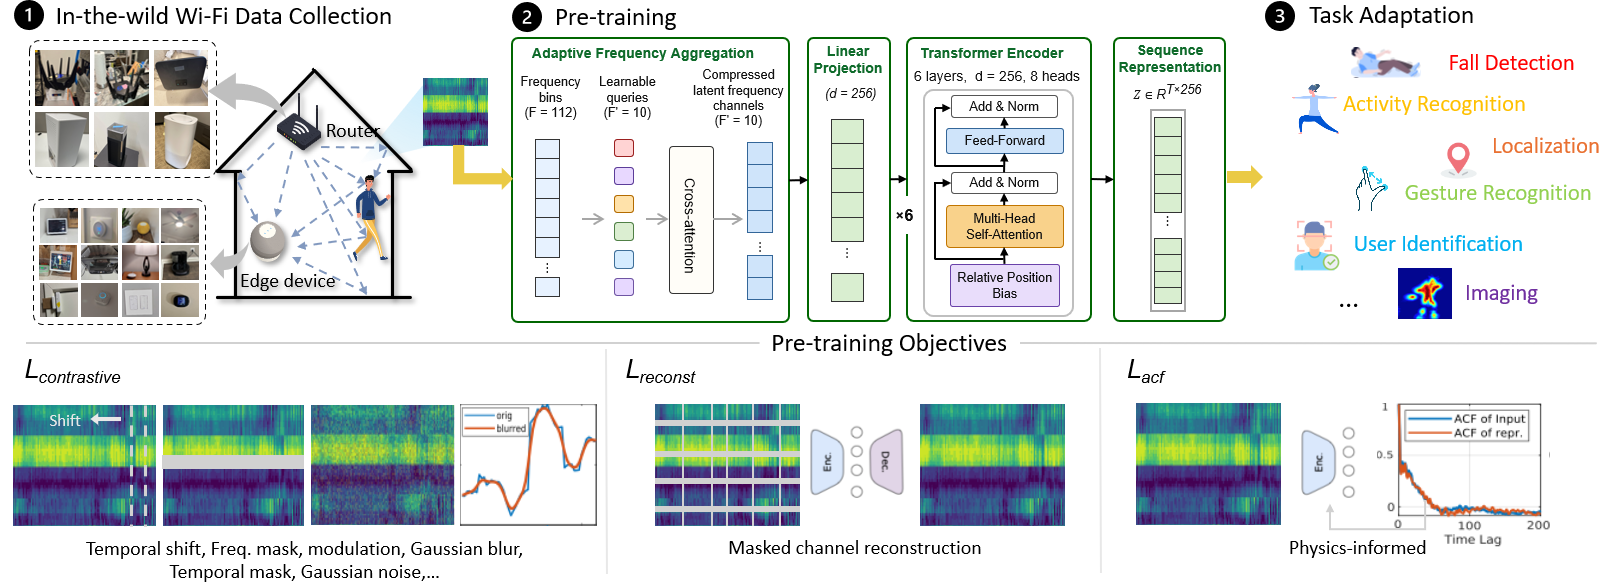
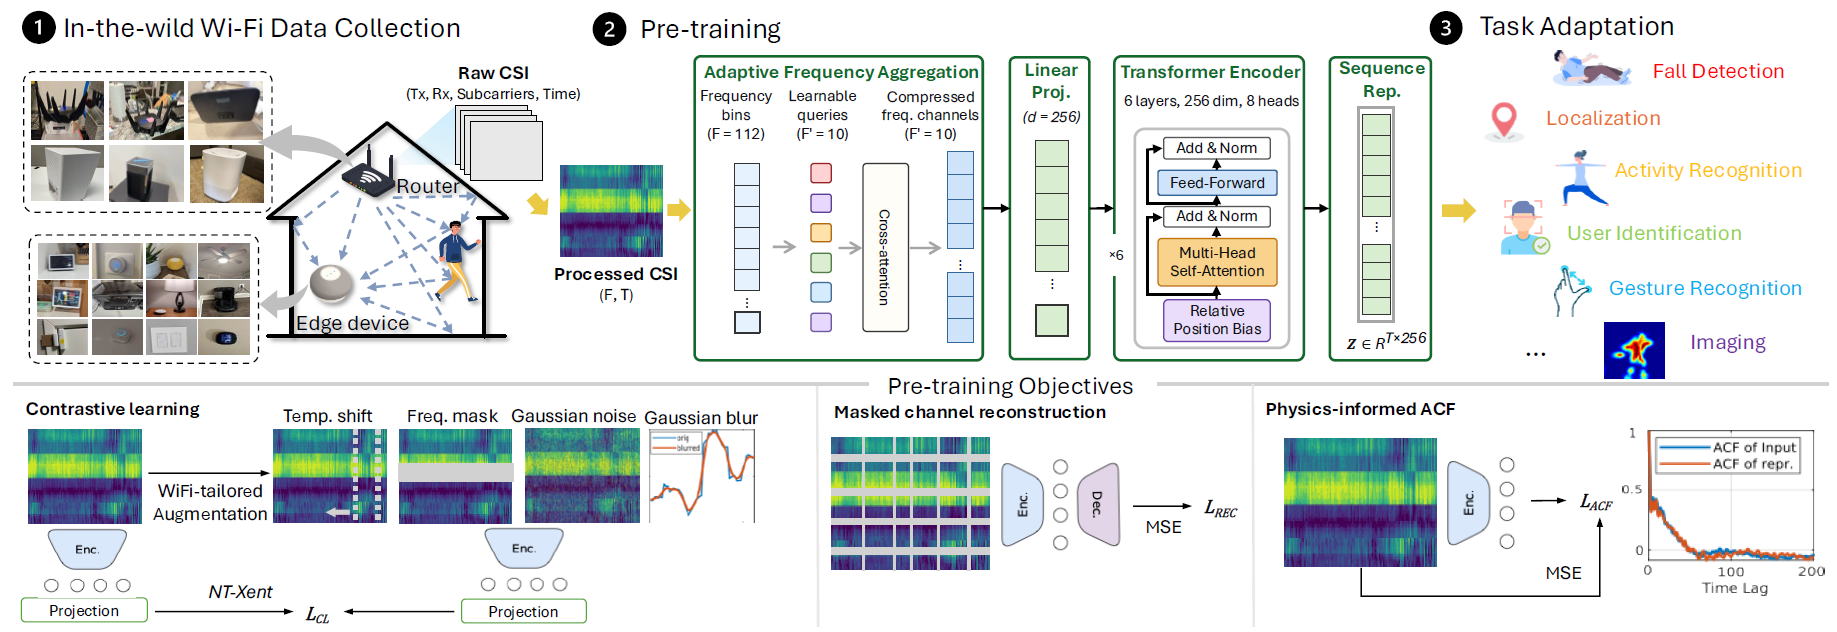
update the concept figure

diff --git a/ambient-fm/static/css/index.css b/ambient-fm/static/css/index.css
@@ -180,14 +180,20 @@ body {
 }
 
 .stat-grid {
-  display: grid;
-  grid-template-columns: repeat(auto-fill, minmax(140px, 1fr));
+  display: flex;
+  flex-wrap: wrap;
+  justify-content: center;
+  align-items: stretch;
   gap: 0.75rem;
-  max-width: 900px;
-  margin: 0 auto;
+  max-width: 960px;
+  margin-left: auto;
+  margin-right: auto;
 }
 
 .stat-card {
+  flex: 0 1 158px;
+  min-width: 140px;
+  max-width: 180px;
   background: #fff;
   border: 1px solid var(--ambient-border);
   border-radius: 10px;